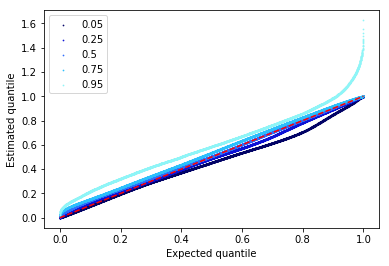
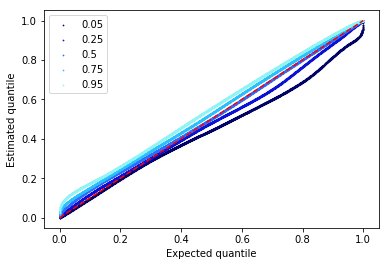
Fix interpolation of CDF

diff --git a/docs/zinb.html b/docs/zinb.html
@@ -1,7 +1,7 @@
 <!DOCTYPE html>
 <html lang="en">
 <head>
-<!-- 2018-02-16 Fri 11:10 -->
+<!-- 2018-02-16 Fri 12:10 -->
 <meta charset="utf-8">
 <meta name="viewport" content="width=device-width, initial-scale=1">
 <title>Mean/dispersion estimation</title>
@@ -552,9 +552,12 @@ handle this, plot randomized quantiles \(\tilde{G}_{ijk}(r_{ijk}) =
   <span class="org-keyword">assert</span> (p.values &lt;= 1).<span class="org-builtin">all</span>()
   <span class="org-variable-name">G</span> = st.nbinom(n=n, p=p).cdf(x)
   <span class="org-keyword">if</span> gene_dropout <span class="org-keyword">is</span> <span class="org-keyword">not</span> <span class="org-constant">None</span>:
+    <span class="org-variable-name">G</span> *= sp.expit(-gene_dropout.values.T)
     <span class="org-variable-name">G</span> += np.random.uniform(size=G.shape) * sp.expit(gene_dropout.values.T)
   <span class="org-keyword">elif</span> ind_dropout <span class="org-keyword">is</span> <span class="org-keyword">not</span> <span class="org-constant">None</span>:
+    <span class="org-variable-name">G</span> *= onehot.dot(sp.expit(-ind_dropout.values.T))
     <span class="org-variable-name">G</span> += np.random.uniform(size=G.shape) * onehot.dot(sp.expit(ind_dropout.values.T))
+  <span class="org-keyword">assert</span> (G &lt;= 1).<span class="org-builtin">all</span>()
   <span class="org-keyword">return</span> G
 
 <span class="org-keyword">def</span> <span class="org-function-name">diagnostic</span>(umi, mean, disp, size, onehot, **kwargs):
@@ -766,7 +769,7 @@ Plot the data and fitted distribution.
 </div>
 <div id="postamble" class="status">
 <p class="author">Author: Abhishek Sarkar</p>
-<p class="date">Created: 2018-02-16 Fri 11:10</p>
+<p class="date">Created: 2018-02-16 Fri 12:10</p>
 <p class="validation"><a href="http://validator.w3.org/check?uri=referer">Validate</a></p>
 </div>
 </body>
